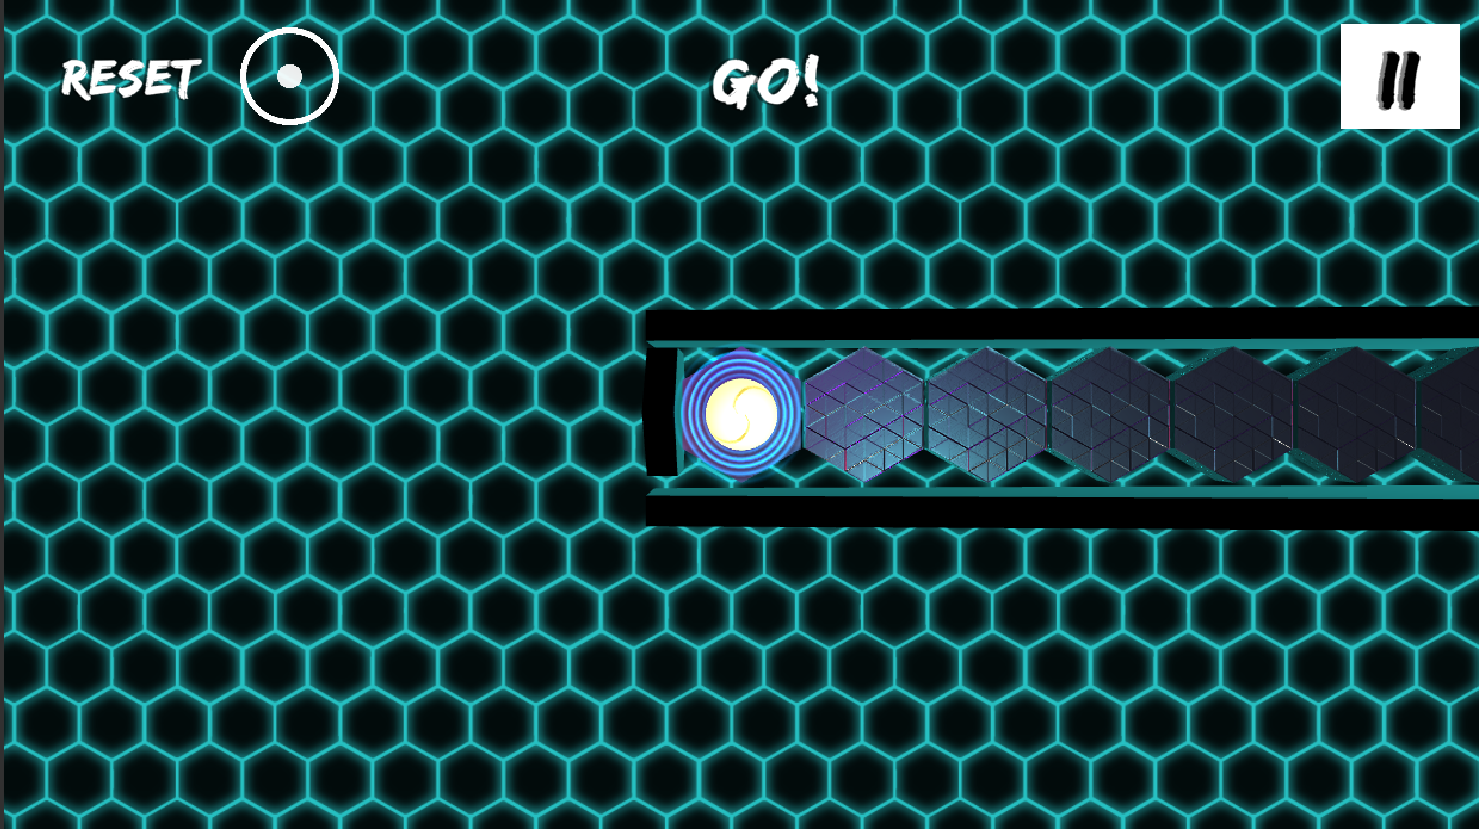
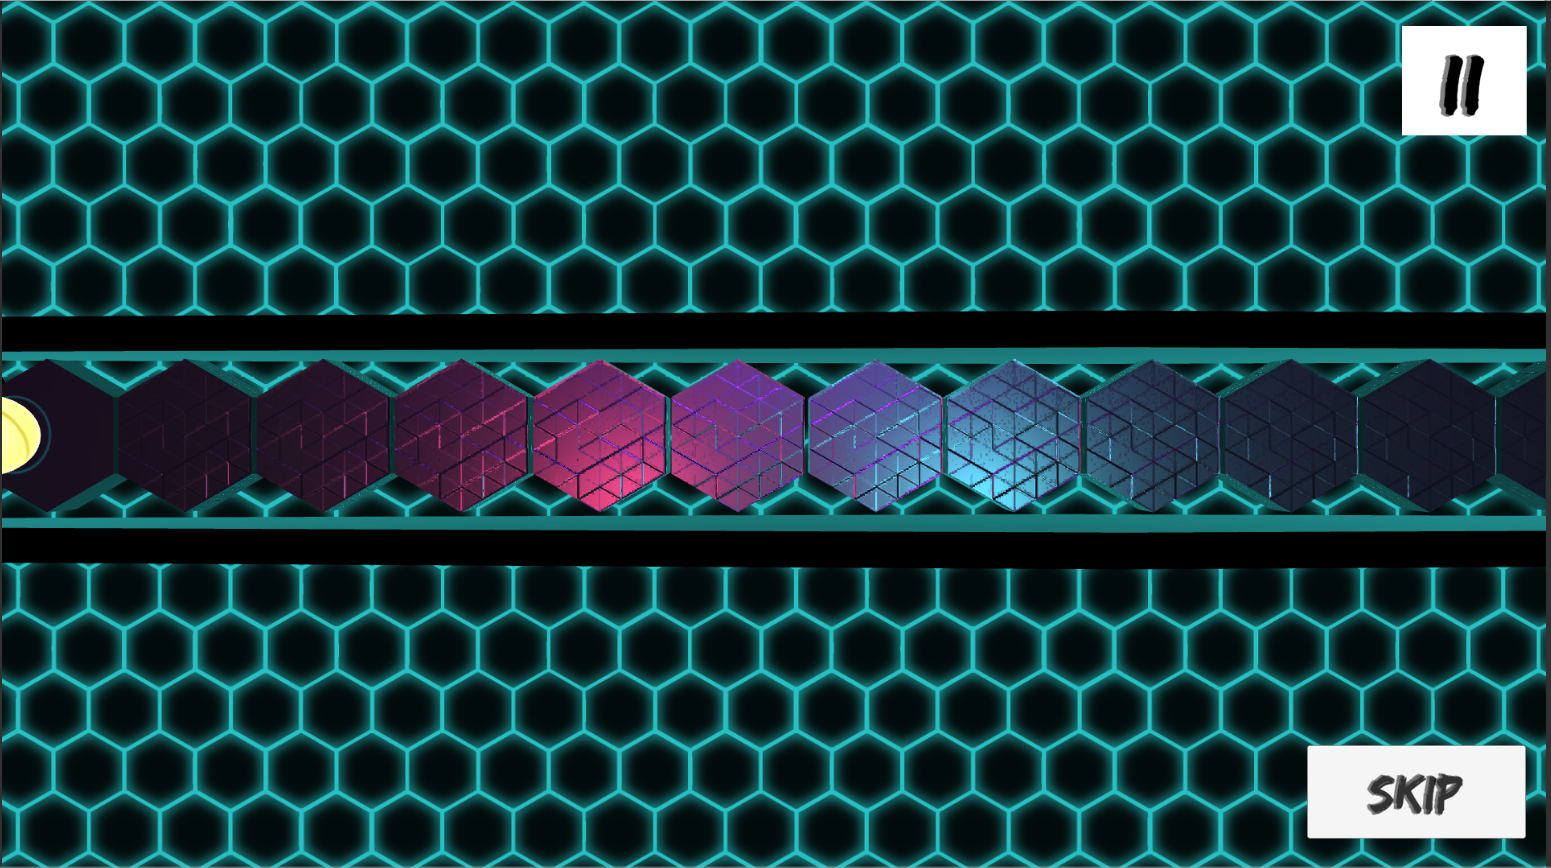
changed main music volume to 0.25, added new level pictures, commented out fall depth

diff --git a/Assets/3_Scripts/1_Hexagons/HexagonBehaviour.cs b/Assets/3_Scripts/1_Hexagons/HexagonBehaviour.cs
@@ -13,7 +13,7 @@ public class HexagonBehaviour : MonoBehaviour
     
 
     [SerializeField] private float crackedTileTrapsInSeconds;
-    [SerializeField] private float fallDepth = 0;
+   // [SerializeField] private float fallDepth = 0;
     private float destructionDelay;
 
     private HashSet<Ball> balls = new HashSet<Ball>(); // All the players who are setting on the tile get saved here
@@ -26,7 +26,7 @@ public class HexagonBehaviour : MonoBehaviour
     public void Setup()
     {
         crackedTileTrapsInSeconds = 2f;
-        fallDepth = 0f;
+       // fallDepth = 0f;
     }
 
     void Start()
@@ -50,7 +50,7 @@ public class HexagonBehaviour : MonoBehaviour
             {            
                 thisHexagon.SetColor(colors[arrivedCrackedTile]);
                 thisHexagon.GetAudioSource().Play();
-                FallAndFade();
+               // FallAndFade();
                 ActivateCrackedTile();
             }
 
@@ -194,14 +194,14 @@ public class HexagonBehaviour : MonoBehaviour
         }
     }
 
-    private void FallAndFade()
+   /* private void FallAndFade()
     {
 
         LeanTween.moveY(gameObject, gameObject.transform.position.y - fallDepth, destructionDelay);
         LeanTween.alpha(thisHexagon.gameObject, 0.0f, destructionDelay);
         //gameObject.transform.GetChild(0).gameObject
         //LeanTween.alpha 
-    }
+    }*/
 
     /* ------------------------------ SETTER METHODS BEGINN ------------------------------  */
     public void SetColors(Color[] colors)
@@ -214,10 +214,10 @@ public class HexagonBehaviour : MonoBehaviour
         crackedTileTrapsInSeconds = seconds;
     }
 
-    public void SetFallDepth(float fallDepth)
+   /* public void SetFallDepth(float fallDepth)
     {
         this.fallDepth = fallDepth;
-    }
+    }*/
 
 
     /* ------------------------------ GETTER METHODS BEGINN ------------------------------  */

diff --git a/Assets/3_Scripts/1_Hexagons/TilesApplyForAll.cs b/Assets/3_Scripts/1_Hexagons/TilesApplyForAll.cs
@@ -33,7 +33,7 @@ public class TilesApplyForAll : MonoBehaviour
                 {
                     HexagonBehaviour hexagon = tiles[i].GetComponent<HexagonBehaviour>();
                     hexagon.SetCrackedTileBreaksInTime(crackedTileBreaksInSeconds);
-                    hexagon.SetFallDepth(fallDepth);
+                 //   hexagon.SetFallDepth(fallDepth);
                     break;
                 }            
 
